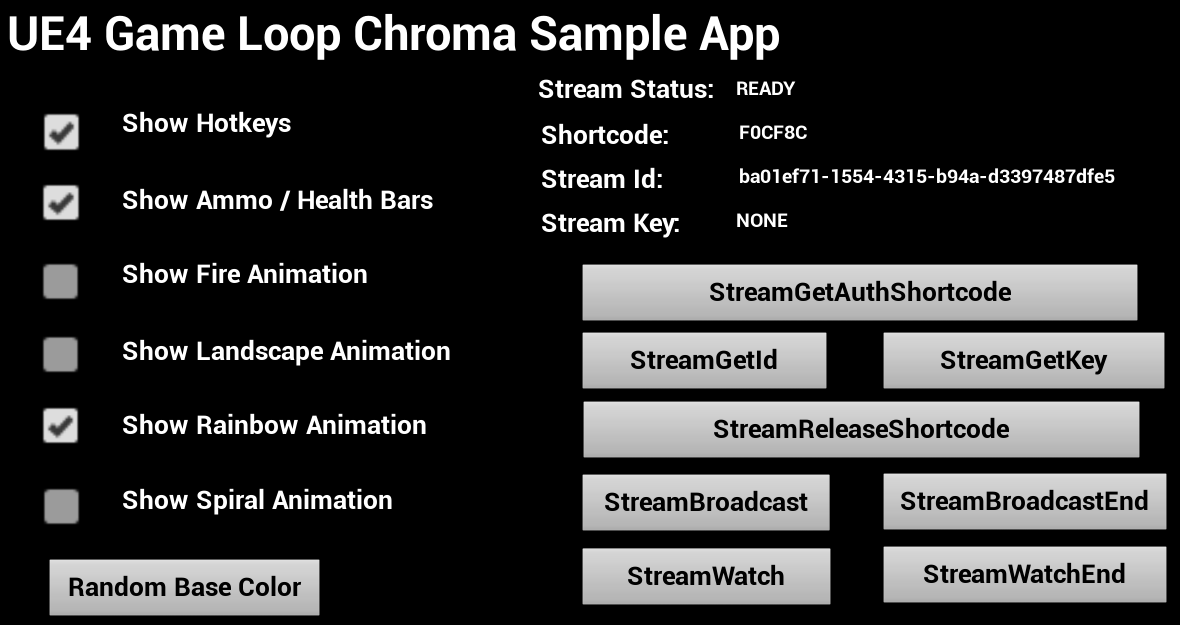
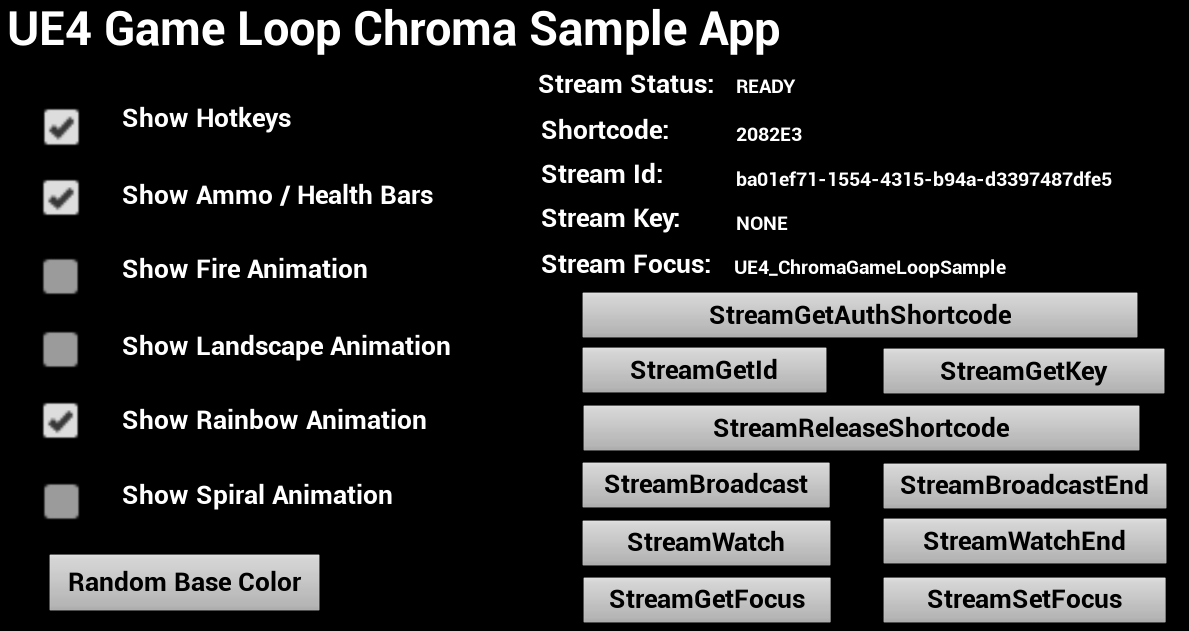
Sync API

diff --git a/UE4ChromaSDKRT/Plugins/ChromaSDKPlugin/Source/ChromaSDKPlugin/Public/ChromaSDKPluginBPLibrary.h b/UE4ChromaSDKRT/Plugins/ChromaSDKPlugin/Source/ChromaSDKPlugin/Public/ChromaSDKPluginBPLibrary.h
@@ -1577,9 +1577,6 @@ class CHROMASDKPLUGIN_API UChromaSDKPluginBPLibrary : public UBlueprintFunctionL
 	UFUNCTION(BlueprintCallable, meta = (DisplayName = "StreamGetFocus", Keywords = "Get Stream Focus"), Category = "ChromaSDK")
 		static FString StreamGetFocus();
 
-	UFUNCTION(BlueprintCallable, meta = (DisplayName = "StreamSetFocus", Keywords = "Stream Set Focus"), Category = "ChromaSDK")
-		static bool StreamSetFocus(const FString& streamFocus);
-
 	UFUNCTION(BlueprintCallable, meta = (DisplayName = "StreamGetId", Keywords = "Get Stream Id"), Category = "ChromaSDK")
 		static FString StreamGetId(const FString& shortcode);
 
@@ -1591,6 +1588,9 @@ class CHROMASDKPLUGIN_API UChromaSDKPluginBPLibrary : public UBlueprintFunctionL
 
 	UFUNCTION(BlueprintCallable, meta = (DisplayName = "StreamReleaseShortcode", Keywords = "Release Stream Shortcode"), Category = "ChromaSDK")
 		static bool StreamReleaseShortcode(const FString& shortcode);
+
+	UFUNCTION(BlueprintCallable, meta = (DisplayName = "StreamSetFocus", Keywords = "Stream Set Focus"), Category = "ChromaSDK")
+		static bool StreamSetFocus(const FString& streamFocus);
 
 	UFUNCTION(BlueprintCallable, meta = (DisplayName = "StreamWatch", Keywords = "Start Chroma Watching"), Category = "ChromaSDK")
 		static void StreamWatch(const FString& streamId, int32 timestamp);

diff --git a/README.md b/README.md
@@ -328,10 +328,12 @@ The [UE4ChromaSDKRT/Content/Levels/SampleGameLevel.umap](UE4ChromaSDKRT/Content/
 * [StreamBroadcast](#StreamBroadcast)
 * [StreamBroadcastEnd](#StreamBroadcastEnd)
 * [StreamGetAuthShortcode](#StreamGetAuthShortcode)
+* [StreamGetFocus](#StreamGetFocus)
 * [StreamGetId](#StreamGetId)
 * [StreamGetKey](#StreamGetKey)
 * [StreamGetStatusString](#StreamGetStatusString)
 * [StreamReleaseShortcode](#StreamReleaseShortcode)
+* [StreamSetFocus](#StreamSetFocus)
 * [StreamWatch](#StreamWatch)
 * [StreamWatchEnd](#StreamWatchEnd)
 * [SubtractNonZeroAllKeysAllFrames](#SubtractNonZeroAllKeysAllFrames)
@@ -2795,6 +2797,19 @@ FString UChromaSDKPluginBPLibrary::StreamGetAuthShortcode(const FString&
 ```
 
 ---
+<a name="StreamGetFocus"></a>
+**StreamGetFocus**
+
+focus: Pass the address of a preallocated character buffer to get the stream
+focus. The buffer should have a length of 48  length: Length will return
+as zero if the stream focus could not be obtained. If length is greater
+than zero, it will be the length of the returned stream focus.
+
+```c++
+FString UChromaSDKPluginBPLibrary::StreamGetFocus();
+```
+
+---
 <a name="StreamGetId"></a>
 **StreamGetId**
 
@@ -2859,6 +2874,18 @@ returns success when shortcode has been released
 
 ```c++
 bool UChromaSDKPluginBPLibrary::StreamReleaseShortcode(const FString& shortcode);
+```
+
+---
+<a name="StreamSetFocus"></a>
+**StreamSetFocus**
+
+The focus is a null terminated string. Set the focus identifer for the application
+designated to automatically change the streaming state.  Returns true on
+success.
+
+```c++
+bool UChromaSDKPluginBPLibrary::StreamSetFocus(const FString& streamFocus);
 ```
 
 ---
@@ -2992,7 +3019,6 @@ void UChromaSDKPluginBPLibrary::SubtractNonZeroTargetAllKeysAllFramesOffsetName(
 **TrimEndFrames**
 
 Trim the end of the animation. The length of the animation will be the lastFrameId
-
 * 1. Reference the animation by id.
 
 ```c++
@@ -3004,7 +3030,6 @@ void UChromaSDKPluginBPLibrary::TrimEndFrames(int32 animationId, int32 lastFrame
 **TrimEndFramesName**
 
 Trim the end of the animation. The length of the animation will be the lastFrameId
-
 * 1. Reference the animation by name.
 
 ```c++
